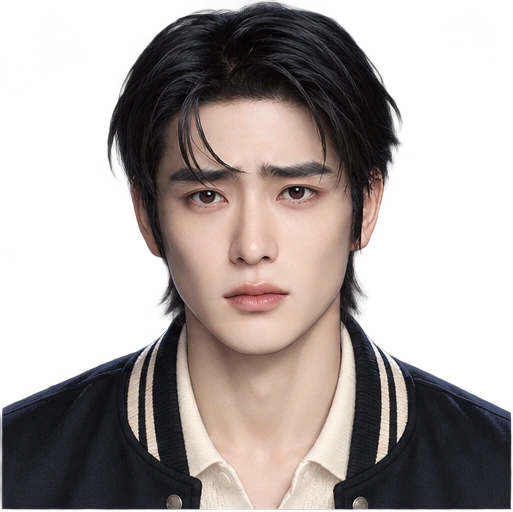
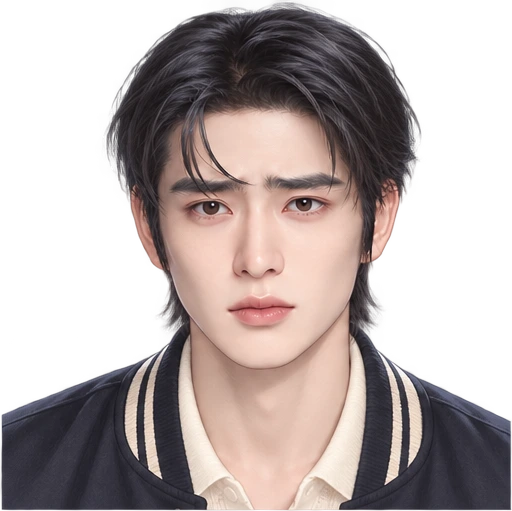
FEMC: Kat's remakes for Danielle, Doyoung, Jaehyun and Jeno (Runners)

diff --git a/assets/femc/portraits/scale.js b/assets/femc/portraits/scale.js
@@ -106,14 +106,14 @@ window.FEMC_PORTRAIT_SCALE = {
   'minji-runners': 0.86, // batch 95: Kat's realistic Runners set, eyes-to-chin matched to Haechan's
   'hanni-runners': 0.83, // batch 95: Kat's realistic Runners set, eyes-to-chin matched to Haechan's
   'hyein-runners': 0.8, // batch 95: Kat's realistic Runners set, eyes-to-chin matched to Haechan's
-  'danielle-runners': 0.78, // batch 95: Kat's realistic Runners set, eyes-to-chin matched to Haechan's
+  'danielle-runners': 0.76, // batch 97: Kat's remake, eyes-to-chin matched to Haechan's
   'jaemin-runners': 0.82, // batch 95: Kat's realistic Runners set, eyes-to-chin matched to Haechan's
-  'doyoung-runners': 0.95, // batch 95: Kat's realistic Runners set, eyes-to-chin matched to Haechan's
+  'doyoung-runners': 0.76, // batch 97: Kat's remake, eyes-to-chin matched to Haechan's
   'olivia-runners': 0.83, // batch 95: Kat's realistic Runners set, eyes-to-chin matched to Haechan's
   'haerin-runners': 0.8, // batch 95: Kat's realistic Runners set, eyes-to-chin matched to Haechan's
   'chenle-runners': 0.8, // batch 96: Kat's realistic set, eyes-to-chin matched to Haechan's
-  'jaehyun-runners': 0.78, // batch 96: Kat's realistic set, eyes-to-chin matched to Haechan's
-  'jeno-runners': 0.78, // batch 96: Kat's realistic set, eyes-to-chin matched to Haechan's
+  'jaehyun-runners': 0.76, // batch 97: Kat's remake, eyes-to-chin matched to Haechan's
+  'jeno-runners': 0.8, // batch 97: Kat's remake, eyes-to-chin matched to Haechan's
   'yunjin-strangers': 0.86, // batch 96: Kat's realistic set, eyes-to-chin matched to Haechan's
   'taesang-strangers': 0.84, // batch 96: Kat's realistic set, eyes-to-chin matched to Haechan's
   'miyeon-strangers': 0.9, // batch 96: Kat's realistic set, eyes-to-chin matched to Haechan's
@@ -225,4 +225,4 @@ window.FEMC_PORTRAIT_SCALE = {
 window.FEMC_PORTRAIT_DROP = { fuuka: 0.08, jaemin: 0.08, chenle: 0.14 }; // jungwon's 0.1 was for the old set (batch 51)
 
 /* Bump when portrait images change, so browsers fetch the new faces. */
-window.FEMC_PORTRAIT_V = 18;
+window.FEMC_PORTRAIT_V = 19;

diff --git a/femc-game.html b/femc-game.html
@@ -18,7 +18,7 @@
   <!-- Art indexes, and the battle game's data, rules and save shape (the field menu reads levels, Personas and gear through
        them; the fights themselves run in femc-battle.html?embed=1 inside this page). -->
   <script src="assets/femc/portraits/index.js?v=147"></script>
-  <script src="assets/femc/portraits/scale.js?v=158"></script>
+  <script src="assets/femc/portraits/scale.js?v=159"></script>
   <script src="assets/femc/tarot/index.js?v=132"></script>
   <script src="assets/femc/battle/data.js?v=37"></script>
   <script src="assets/femc/battle/build.js?v=20"></script>
